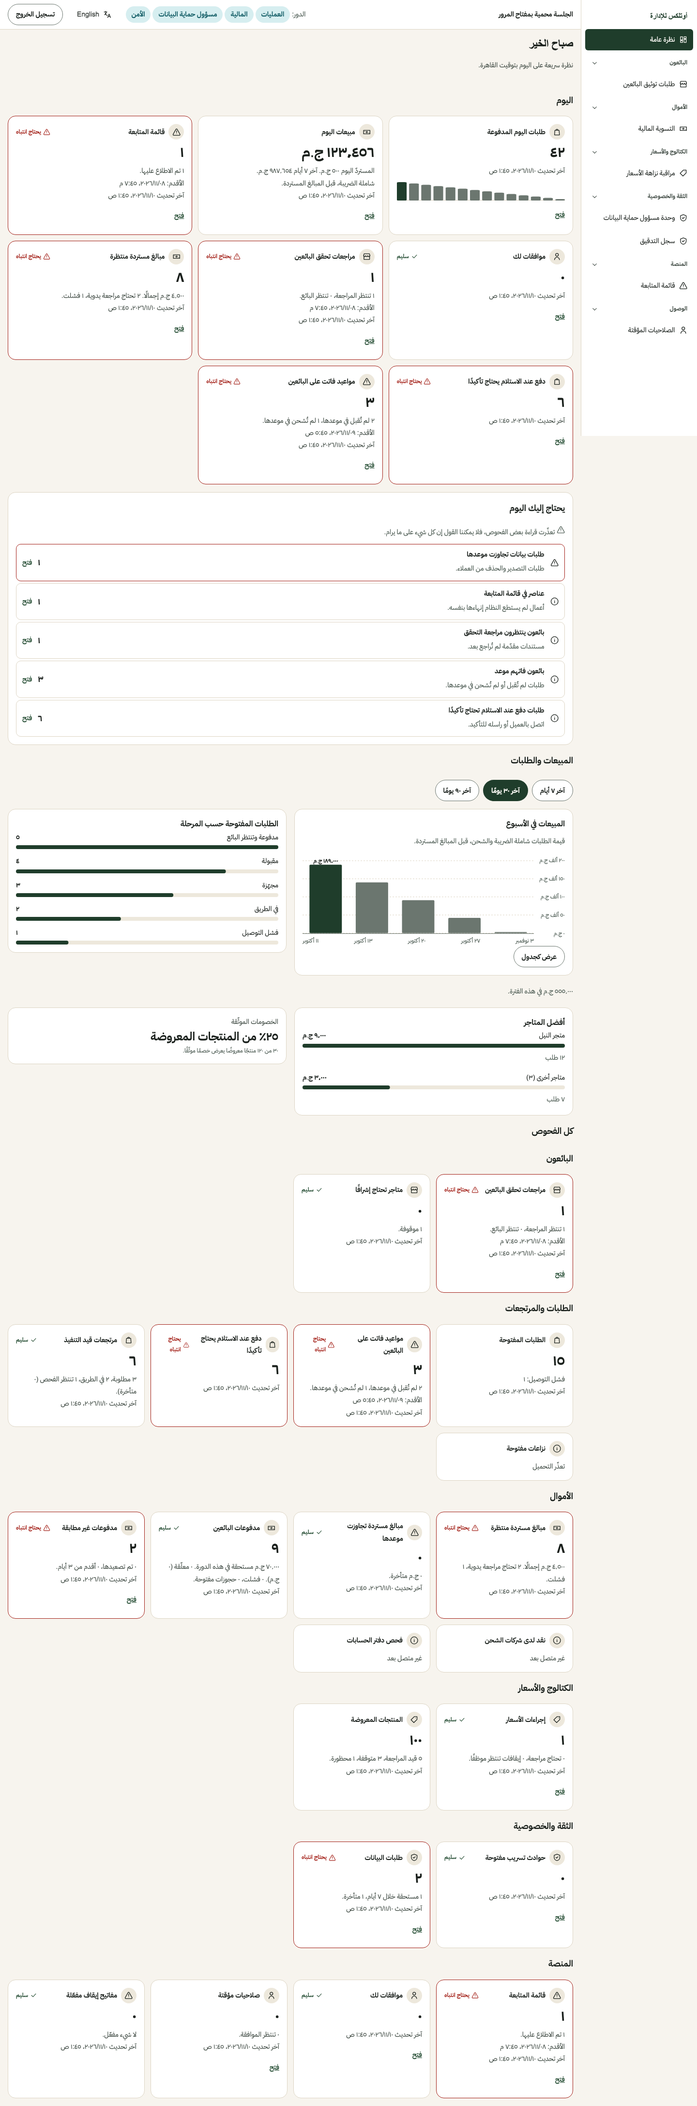
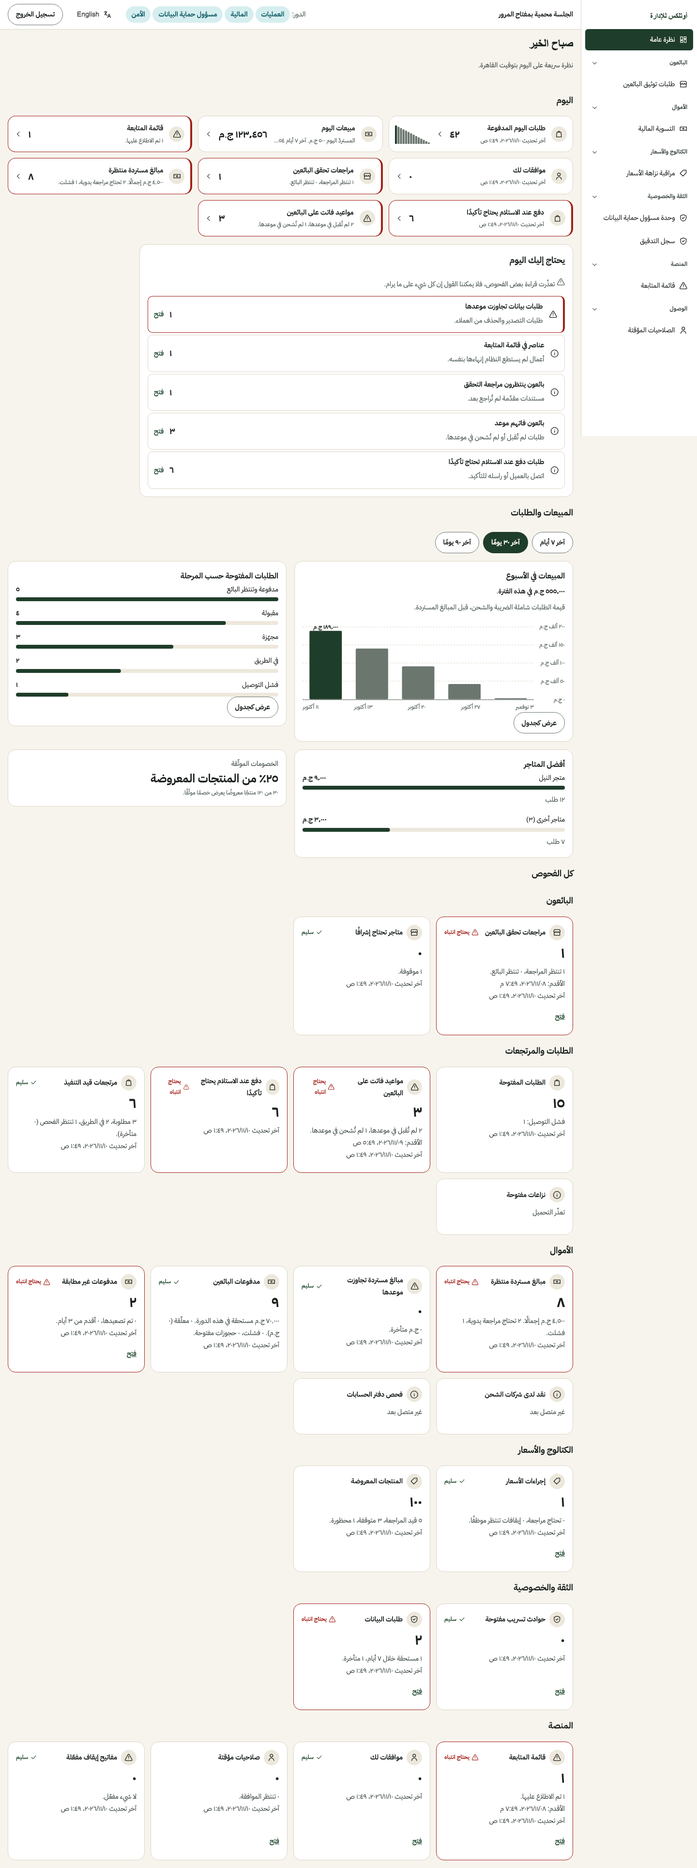
feat(admin): compact one-row Today cards (whole card is the link, chevron, inline sparkline), named Open links, table toggle for orders-by-step, period summary inside the chart frame, constrained Needs-you panel; fix e2e spec types

diff --git a/apps/admin/test/tile-model-branches.test.ts b/apps/admin/test/tile-model-branches.test.ts
@@ -1,0 +1,71 @@
+import { createTranslator } from "@outlet/i18n";
+import { describe, expect, it } from "vitest";
+import { DESCRIBERS } from "../src/components/home/tileModel";
+
+const c = { t: createTranslator("en-EG"), locale: "en-EG" as const };
+const iso = "2026-11-10T08:00:00Z";
+const egp = (v: string) => ({ amount_minor: v, currency: "EGP" });
+
+describe("tile describers: the alert flag and the notes follow the data", () => {
+  it("ledger integrity alerts when either the balance or the hash chain is wrong, and only then", () => {
+    const d = DESCRIBERS.ledger_integrity;
+    const base = { balanced: true, chain_ok: true, checked_at: iso };
+    expect(d?.(base, c).alert).toBe(false);
+    expect(d?.({ ...base, balanced: false }, c).alert).toBe(true);
+    expect(d?.({ ...base, chain_ok: false }, c).alert).toBe(true);
+    expect(d?.({ ...base, balanced: false }, c).value).toBe(c.t("admin.home.ledger.unbalanced"));
+    expect(d?.({ ...base, chain_ok: false }, c).notes[0]).toContain(c.t("admin.home.ledger.chainBroken"));
+    expect(d?.(base, c).value).toBe(c.t("admin.home.ledger.balanced"));
+  });
+
+  it("breaches: no deadline means no note and no alert at zero; an open breach alerts and names the deadline", () => {
+    const d = DESCRIBERS.breaches_open;
+    expect(d?.({ open: 0, next_pdpc_deadline_at: null, next_subjects_deadline_at: null }, c)).toMatchObject({ notes: [], alert: false, href: "/privacy" });
+    const open = d?.({ open: 2, next_pdpc_deadline_at: iso, next_subjects_deadline_at: null }, c);
+    expect(open?.alert).toBe(true);
+    expect(open?.notes).toHaveLength(1);
+  });
+
+  it("approvals: the soonest expiry is only a note when there is one", () => {
+    const d = DESCRIBERS.approvals_pending;
+    expect(d?.({ for_me: 0, soonest_expires_at: null }, c)).toMatchObject({ notes: [], alert: false });
+    expect(d?.({ for_me: 3, soonest_expires_at: iso }, c)).toMatchObject({ alert: true, value: "3" });
+    expect(d?.({ for_me: 3, soonest_expires_at: iso }, c).notes).toHaveLength(1);
+  });
+
+  it("elevations: the own-scope reminder appears only for scope own; the tile never alerts", () => {
+    const d = DESCRIBERS.elevations_active;
+    expect(d?.({ active: 1, pending: 2, scope: "own" }, c).notes).toHaveLength(2);
+    expect(d?.({ active: 1, pending: 2, scope: "market" }, c).notes).toHaveLength(1);
+    expect(d?.({ active: 1, pending: 2, scope: "own" }, c).alert).toBeUndefined();
+  });
+
+  it("kill switches: none engaged is calm; engaged lists the names per class with 'none' for an empty class", () => {
+    const d = DESCRIBERS.kill_switches;
+    const calm = d?.({ engaged_money: [], engaged_ui: [] }, c);
+    expect(calm).toMatchObject({ value: "0", alert: false, notes: [c.t("admin.home.note.noneEngaged")] });
+    const hot = d?.({ engaged_money: ["payments.cod.enabled", "payments.card.enabled"], engaged_ui: [] }, c);
+    expect(hot?.alert).toBe(true);
+    expect(hot?.value).toBe("2");
+    expect(hot?.notes[0]).toContain("payments.cod.enabled, payments.card.enabled");
+    expect(hot?.notes[0]).toContain(c.t("admin.home.note.none"));
+    expect(d?.({ engaged_money: [], engaged_ui: ["drops.enabled"] }, c).notes[0]).toContain("drops.enabled");
+  });
+
+  it("payouts alert on holds or failures, not on a plain due count", () => {
+    const d = DESCRIBERS.payouts;
+    const base = { due_count: 4, due_net: egp("1000"), on_hold_count: 0, on_hold_net: egp("0"), failed: 0, open_holds: 0 };
+    expect(d?.(base, c).alert).toBe(false);
+    expect(d?.({ ...base, on_hold_count: 1 }, c).alert).toBe(true);
+    expect(d?.({ ...base, failed: 1 }, c).alert).toBe(true);
+  });
+
+  it("stale-prone counts: oldest notes only appear with a timestamp; listings carry no alert at all", () => {
+    expect(DESCRIBERS.cod_awaiting_confirmation?.({ count: 0, oldest_at: null }, c)).toMatchObject({ notes: [], alert: false });
+    expect(DESCRIBERS.cod_awaiting_confirmation?.({ count: 2, oldest_at: iso }, c)).toMatchObject({ alert: true });
+    expect(DESCRIBERS.cod_awaiting_confirmation?.({ count: 2, oldest_at: iso }, c).notes).toHaveLength(1);
+    expect(DESCRIBERS.listings_by_status?.({ published: 9, in_review: 1, paused: 0, blocked: 0 }, c).alert).toBeUndefined();
+    expect(DESCRIBERS.seller_sla_breaches?.({ late_accept: 0, late_dispatch: 0, oldest_at: null }, c)).toMatchObject({ alert: false, notes: [expect.any(String)] });
+    expect(DESCRIBERS.seller_sla_breaches?.({ late_accept: 0, late_dispatch: 2, oldest_at: iso }, c)).toMatchObject({ alert: true, value: "2" });
+  });
+});

diff --git a/apps/admin/src/components/home/SalesAndOrders.tsx b/apps/admin/src/components/home/SalesAndOrders.tsx
@@ -3,6 +3,8 @@ import type { Locale, MessageKey, Translator } from "@outlet/i18n";
 import { bucketSeries, flattenTiles, permille, RANGES, tileState, type DashboardResponse, type Range, type SeriesPoint, type TileKey, type Tiles } from "../../lib/dashboard";
 import { fmtMoney, fmtNumber } from "../../lib/fmt";
 import { BarList, type BarListItem } from "../kit/BarList";
+import { ChartTableToggle } from "../kit/ChartTableToggle";
+import { DataTable } from "../kit/ChartFrame";
 import { ColumnsChart } from "../kit/ColumnsChart";
 import { KpiCard } from "../kit/KpiCard";
 import { shortDay } from "./HomeTile";
@@ -50,12 +52,12 @@ export function SalesAndOrders({ resp, range, now, t, locale, base, rtl }: { res
       const weekly = pts.length > 14;
       const total = money && d.total_gmv !== null ? t("admin.home.sales.summaryGmv", { total: fmtMoney(d.total_gmv, locale) }) : d.total_orders !== null ? t("admin.home.sales.summaryOrders", { total: fmtNumber(d.total_orders, locale) }) : "";
       chart = (
-        <div className="stack">
-          <ColumnsChart
+        <ColumnsChart
             points={buckets.map((b) => ({ label: shortDay(b.from, locale), value: Number(b.value) }))}
             rtl={rtl}
             title={t(money ? (weekly ? "admin.home.sales.gmvTitleWeek" : "admin.home.sales.gmvTitle") : weekly ? "admin.home.sales.ordersTitleWeek" : "admin.home.sales.ordersTitle")}
             note={t(money ? "admin.home.sales.gmvNote" : "admin.home.sales.ordersNote")}
+            {...(total !== "" ? { summary: total } : {})}
             format={{ kind: money ? "money" : "number", locale }}
             axisFormat={{ kind: money ? "moneyCompact" : "compact", locale }}
             valueHeader={t(money ? "admin.home.sales.colSales" : "admin.home.sales.colOrders")}
@@ -65,8 +67,6 @@ export function SalesAndOrders({ resp, range, now, t, locale, base, rtl }: { res
             highestLabel={t("admin.kit.highest")}
             latestLabel={t("admin.kit.latest")}
           />
-          {total !== "" ? <p className="hint" data-testid="sales-summary">{total}</p> : null}
-        </div>
       );
     }
   }
@@ -87,7 +87,7 @@ export function SalesAndOrders({ resp, range, now, t, locale, base, rtl }: { res
       {steps.kind !== "hidden" ? (
         <div className="card" data-panel="steps">
           <h3 className="chartFrameTitle">{t("admin.home.steps.title")}</h3>
-          {steps.kind === "unavailable" ? <p className="hint">{t(`admin.home.unavailable.${steps.reason}`)}</p> : <BarList items={stepItems} emptyText={t("admin.kit.chartEmpty")} />}
+          {steps.kind === "unavailable" ? <p className="hint">{t(`admin.home.unavailable.${steps.reason}`)}</p> : stepItems.length === 0 ? <BarList items={stepItems} emptyText={t("admin.kit.chartEmpty")} /> : <ChartTableToggle chart={<BarList items={stepItems} emptyText={t("admin.kit.chartEmpty")} />} table={<DataTable caption={t("admin.home.steps.title")} table={{ head: [t("admin.home.steps.colStep"), t("admin.home.sales.colOrders")], rows: STEPS.map((k) => [t(`admin.home.steps.${k}` as MessageKey), fmtNumber(steps.data[k], locale)]) }} />} label={t("admin.kit.tableView")} />}
         </div>
       ) : null}
       {top.kind !== "hidden" ? (

diff --git a/apps/admin/test/charts/path-branches.test.ts b/apps/admin/test/charts/path-branches.test.ts
@@ -1,0 +1,51 @@
+import { describe, expect, it } from "vitest";
+import { areaPath, linePath, monotonePath } from "../../src/lib/charts/path";
+
+describe("monotonePath edge inputs", () => {
+  it("a single point is a bare move; two points are a straight line", () => {
+    expect(monotonePath([{ x: 3.456, y: 7.891 }])).toBe("M3.46 7.89");
+    expect(monotonePath([{ x: 0, y: 1 }, { x: 4, y: 9 }])).toBe(linePath([{ x: 0, y: 1 }, { x: 4, y: 9 }]));
+  });
+
+  it("a flat run stays flat (zero slope), so the curve never dips below a real low", () => {
+    const d = monotonePath([{ x: 0, y: 5 }, { x: 1, y: 5 }, { x: 2, y: 5 }, { x: 3, y: 9 }]);
+    const flat = d.split("C").slice(1, 3);
+    for (const seg of flat) for (const y of seg.trim().split(" ").filter((_, i) => i % 2 === 1)) expect(Number(y)).toBe(5);
+  });
+
+  it("a turning point gets a zero tangent: the control points at the peak sit on its own y", () => {
+    const d = monotonePath([{ x: 0, y: 0 }, { x: 1, y: 10 }, { x: 2, y: 0 }]);
+    const segs = d.split("C").slice(1).map((s) => s.trim().split(" ").map(Number));
+    expect(segs[0]?.[3]).toBe(10); // second control point of the first segment is level with the peak
+    expect(segs[1]?.[1]).toBe(10); // first control point of the second segment too
+  });
+
+  it("a very steep step is limited (Fritsch-Carlson) so the curve cannot overshoot the next point", () => {
+    const pts = [{ x: 0, y: 0 }, { x: 1, y: 0.001 }, { x: 2, y: 100 }, { x: 3, y: 100.001 }];
+    const d = monotonePath(pts);
+    const ys = [...d.matchAll(/C([\d.-]+) ([\d.-]+) ([\d.-]+) ([\d.-]+) ([\d.-]+) ([\d.-]+)/g)].flatMap((m) => [Number(m[2]), Number(m[4]), Number(m[6])]);
+    expect(Math.max(...ys)).toBeLessThanOrEqual(100.001 + 1e-9);
+    expect(Math.min(...ys)).toBeGreaterThanOrEqual(0);
+  });
+
+  it("a right-to-left series (descending x) is accepted", () => {
+    const d = monotonePath([{ x: 30, y: 1 }, { x: 20, y: 2 }, { x: 10, y: 3 }]);
+    expect(d.startsWith("M30 1C")).toBe(true);
+    expect(d.endsWith("10 3")).toBe(true);
+  });
+
+  it("repeated x (zero width) yields a flat tangent instead of NaN", () => {
+    const d = monotonePath([{ x: 0, y: 0 }, { x: 0, y: 5 }, { x: 1, y: 9 }]);
+    expect(d).not.toContain("NaN");
+    expect(d).not.toContain("Infinity");
+  });
+});
+
+describe("areaPath", () => {
+  it("closes down to the baseline, and is empty without points or a curve", () => {
+    const pts = [{ x: 0, y: 3 }, { x: 5, y: 1 }];
+    expect(areaPath(linePath(pts), pts, 10)).toBe("M0 3L5 1L5 10L0 10Z");
+    expect(areaPath("", pts, 10)).toBe("");
+    expect(areaPath("M0 0", [], 10)).toBe("");
+  });
+});

diff --git a/apps/admin/src/app/globals.css b/apps/admin/src/app/globals.css
@@ -205,6 +205,23 @@ g[data-newest="true"] .colsBar { fill: var(--color-action-primary-bg); }
 @media (min-width: 48rem) { .todayGrid { grid-template-columns: repeat(2, minmax(0, 1fr)); } }
 @media (min-width: 80rem) { .todayGrid { grid-template-columns: repeat(3, minmax(0, 1fr)); } }
 .tileNoteLine { display: block; }
+.tileCard { padding: 0; }
+.tileCardLink { display: flex; align-items: center; gap: var(--space-3); min-block-size: 44px; padding: var(--space-3); color: inherit; text-decoration: none; border-radius: inherit; }
+a.tileCardLink:hover { background: var(--color-bg-subtle); }
+.tileCardText { display: grid; flex: 1; min-inline-size: 0; gap: 2px; }
+.tileCard .tileLabel { font-size: var(--font-size-sm); font-weight: var(--font-weight-semibold); margin: 0; }
+.tileCard .tileNote { font-size: var(--font-size-xs); white-space: nowrap; overflow: hidden; text-overflow: ellipsis; }
+.tileCard .tileNoteLine { display: none; }
+.tileCard .tileNoteLine:first-child { display: block; overflow: hidden; text-overflow: ellipsis; }
+.tileCard .tileValue { font-size: var(--font-size-xl); font-weight: var(--font-weight-bold); line-height: var(--font-line-height-tight); flex: none; }
+.tileChevron { display: inline-grid; flex: none; color: var(--color-text-secondary); transform: rotate(-90deg); }
+.tileChevron:dir(rtl) { transform: rotate(90deg); }
+.tileCard .spark { flex: none; inline-size: 4.5rem; margin: 0; }
+.tileCard[data-tone="alert"] { border-inline-start: 4px solid var(--color-critical-text); }
+.tileGrid > .tile:not(.tileCard) { grid-template-rows: auto auto 1fr auto; }
+.chartSummary { margin: 0; font-weight: var(--font-weight-semibold); }
+.attention { max-inline-size: 56rem; justify-self: start; inline-size: 100%; }
+.attentionList li[data-urgent] { border-inline-start: 4px solid var(--color-critical-text); }
 .rangePills { display: flex; flex-wrap: wrap; gap: var(--space-2); }
 .rangePill { display: inline-flex; align-items: center; justify-content: center; min-block-size: 44px; min-inline-size: 44px; padding-inline: var(--space-4); border-radius: var(--radius-pill); border: 1px solid var(--color-border-input); color: var(--color-text-primary); text-decoration: none; font-weight: var(--font-weight-semibold); background: var(--color-bg-surface); }
 .rangePill[aria-current="true"] { background: var(--color-action-primary-bg); color: var(--color-action-primary-text); border-color: transparent; }

diff --git a/apps/admin/src/components/kit/Tile.tsx b/apps/admin/src/components/kit/Tile.tsx
@@ -6,7 +6,7 @@ import { Icon, type IconName } from "./Icon";
  * One dashboard tile: plain label, big number, short note, optional detail and a link to the screen
  * behind it. `status` adds a chip with an icon and words (colour is never the only signal).
  */
-export function Tile({ tileKey, icon, label, value, note, href, linkLabel, status, statusLabel, wide = false, children }: {
+export function Tile({ tileKey, icon, label, value, note, href, linkLabel, status, statusLabel, wide = false, card = false, children }: {
   tileKey: string;
   icon: IconName;
   label: string;
@@ -17,9 +17,27 @@ export function Tile({ tileKey, icon, label, value, note, href, linkLabel, statu
   status?: "alert" | "ok";
   statusLabel?: string;
   wide?: boolean;
+  /** Compact "Today" card: the whole card is the link; no separate Open text. */
+  card?: boolean;
   children?: ReactNode;
 }) {
   const headingId = `tile-${tileKey}`;
+  if (card) {
+    const body = (
+      <>
+        <span className="tileIcon"><Icon name={icon} /></span>
+        <span className="tileCardText"><span id={headingId} className="tileLabel">{label}</span>{note ? <span className="tileNote">{note}</span> : null}</span>
+        {value !== undefined ? <span className="tileValue" data-testid="tile-value"><bdi>{value}</bdi></span> : null}
+        {href ? <span className="tileChevron" aria-hidden="true"><Icon name="chevron" /></span> : null}
+        {children}
+      </>
+    );
+    return (
+      <li className="tile tileCard" data-tone={status ?? "neutral"} data-tile={tileKey}>
+        {href ? <Link href={href} className="tileCardLink">{body}</Link> : <div className="tileCardLink">{body}</div>}
+      </li>
+    );
+  }
   return (
     <li className="tile" data-tone={status ?? "neutral"} data-wide={wide ? "true" : undefined} data-tile={tileKey} aria-labelledby={headingId}>
       <div className="tileHead">
@@ -30,7 +48,7 @@ export function Tile({ tileKey, icon, label, value, note, href, linkLabel, statu
       {value !== undefined ? <p className="tileValue" data-testid="tile-value"><bdi>{value}</bdi></p> : null}
       {note ? <p className="tileNote">{note}</p> : null}
       {children}
-      {href && linkLabel ? <Link href={href} className="tileLink">{linkLabel}</Link> : null}
+      {href && linkLabel ? <Link href={href} className="tileLink">{linkLabel}<span className="srOnly"> {label}</span></Link> : null}
     </li>
   );
 }

diff --git a/apps/admin/test/home-view.test.tsx b/apps/admin/test/home-view.test.tsx
@@ -110,7 +110,7 @@ describe.each<Locale>(["ar-EG", "en-EG"])("Home (%s)", (locale) => {
 
   it("table toggle shows every column's value; bars have no link where no list page exists", () => {
     view({}, "7d");
-    const toggle = screen.getByTestId("chart-table-toggle");
+    const toggle = screen.getAllByTestId("chart-table-toggle")[0]!;
     expect(toggle.getAttribute("aria-pressed")).toBe("false");
     fireEvent.click(toggle);
     expect(toggle.getAttribute("aria-pressed")).toBe("true");
@@ -118,11 +118,21 @@ describe.each<Locale>(["ar-EG", "en-EG"])("Home (%s)", (locale) => {
     const steps = document.querySelector<HTMLElement>("[data-panel=steps]")!;
     expect(steps.querySelectorAll("li")).toHaveLength(5);
     expect(steps.querySelectorAll("a")).toHaveLength(0);
+    fireEvent.click(within(steps).getByTestId("chart-table-toggle"));
+    expect(steps.querySelectorAll(".chartTable tbody tr")).toHaveLength(5);
+  });
+
+  it("every Open link and Today card link names its tile", () => {
+    view({}, "7d");
+    const today = document.querySelector<HTMLElement>("[data-section=today]")!;
+    for (const a of Array.from(today.querySelectorAll("a"))) expect(a.textContent.length).toBeGreaterThan(8);
+    expect(today.textContent).not.toMatch(/\bOpen\b/);
+    for (const a of Array.from(document.querySelectorAll("[data-attention-panel] a, [data-section=checks] a"))) expect(a.querySelector(".srOnly")).not.toBeNull();
   });
 
   it("falls back to order columns without finance access and groups 30 days weekly", () => {
     view({ gmv_today: forbidden("gmv_today"), sales_series: { key: "sales_series", status: "ok", as_of: "2026-11-10T08:59:30Z", data: { orders: Array.from({ length: 30 }, (_, i) => ({ day: `2026-10-${String(i + 1).padStart(2, "0")}`, value: 1 })), gmv: null, total_orders: 30, total_gmv: null } } });
-    fireEvent.click(screen.getByTestId("chart-table-toggle"));
+    fireEvent.click(screen.getAllByTestId("chart-table-toggle")[0]!);
     expect(document.querySelectorAll(".chartTable tbody tr")).toHaveLength(5);
     expect(screen.getByTestId("sales-summary")).toBeTruthy();
   });

diff --git a/apps/admin/src/components/home/HomeTile.tsx b/apps/admin/src/components/home/HomeTile.tsx
@@ -15,7 +15,7 @@ export const shortDay = (day: string, locale: Locale): string => {
  * One tile from the dashboard response. forbidden -> nothing is rendered. unavailable -> the reason in words (never a zero).
  * ok -> the figure, its notes and when it was computed; a figure older than its refresh window also says "Stale since".
  */
-export function HomeTile({ tileKey, tiles, now, t, locale, base, rtl, href, spark }: {
+export function HomeTile({ tileKey, tiles, now, t, locale, base, rtl, href, spark, card = false }: {
   tileKey: TileKey;
   tiles: Tiles;
   now: Date;
@@ -25,6 +25,7 @@ export function HomeTile({ tileKey, tiles, now, t, locale, base, rtl, href, spar
   rtl: boolean;
   /** Overrides the destination (Today cards open their pop page). */
   href?: string | null;
+  card?: boolean;
   spark?: readonly { readonly day: string; readonly value: number }[];
 }) {
   const s = tileState(tileKey, tiles[tileKey], now);
@@ -41,8 +42,9 @@ export function HomeTile({ tileKey, tiles, now, t, locale, base, rtl, href, spar
       tileKey={tileKey}
       icon={b.icon}
       label={label}
+      card={card}
       {...(b.value !== undefined ? { value: b.value } : {})}
-      note={<>{notes.map((x, i) => <span key={i} className="tileNoteLine">{x}</span>)}</>}
+      note={<>{(card ? (s.staleSince !== null ? notes.slice(-1) : notes.slice(0, 1)) : notes).map((x, i) => <span key={i} className="tileNoteLine">{x}</span>)}</>}
       {...(dest !== null ? { href: dest, linkLabel: t("admin.kit.attention.open") } : {})}
       {...(b.alert === undefined ? {} : { status: b.alert ? ("alert" as const) : ("ok" as const), statusLabel: t(b.alert ? "admin.kit.statusAlert" : "admin.kit.statusOk") })}
     >

diff --git a/apps/admin/src/components/kit/ColumnsChart.tsx b/apps/admin/src/components/kit/ColumnsChart.tsx
@@ -17,11 +17,12 @@ export interface ColumnPoint {
  * colour). Digits sit in `bdi`. The table view lists every value. `rtl` mirrors the time axis.
  * Renders exactly the points it is given.
  */
-export function ColumnsChart({ points, rtl, title, note, format, axisFormat, valueHeader, labelHeader, tableLabel, emptyText, highestLabel, latestLabel, size = "md" }: {
+export function ColumnsChart({ points, rtl, title, note, summary, format, axisFormat, valueHeader, labelHeader, tableLabel, emptyText, highestLabel, latestLabel, size = "md" }: {
   points: readonly ColumnPoint[];
   rtl: boolean;
   title: string;
   note?: string;
+  summary?: string;
   format: FormatSpec;
   axisFormat: FormatSpec;
   valueHeader: string;
@@ -67,7 +68,7 @@ export function ColumnsChart({ points, rtl, title, note, format, axisFormat, val
   );
   const table = <DataTable caption={title} table={{ head: [labelHeader, valueHeader], rows: points.map((p) => [p.label, formatWith(format, p.value)]) }} />;
   return (
-    <ChartFrame title={title} note={note} size={size}>
+    <ChartFrame title={title} note={note} summary={summary} size={size}>
       {m.empty && points.length === 0 ? <p className="colsEmpty">{emptyText}</p> : <ChartTableToggle chart={chart} table={table} label={tableLabel} />}
     </ChartFrame>
   );

diff --git a/apps/admin/e2e/home.spec.ts b/apps/admin/e2e/home.spec.ts
@@ -288,7 +288,7 @@ test("attention page: ack sends an Idempotency-Key; a 409 shows the 'changed by 
   expect(problems).toEqual([]);
 
   const ackRow = page.locator('[data-attention-id="a7700000-0000-4000-8000-000000000001"]');
-  await ackRow.getByRole("button", { name: CATALOG["eg-ar"]["admin.attention.ack"] }).click();
+  await ackRow.getByRole("button", { name: CATALOG["eg-ar"]["admin.attention.ack"] as string }).click();
   await expect(ackRow.getByRole("status")).toContainText(msg("eg-ar", "admin.attention.done"));
   const sent = (await apiLog()).filter((l) => l.path === "/attention-ack");
   expect(sent).toHaveLength(1);
@@ -298,7 +298,7 @@ test("attention page: ack sends an Idempotency-Key; a 409 shows the 'changed by 
   await page.goto("/eg-en/attention");
   await page.waitForLoadState("networkidle");
   const row = page.locator('[data-attention-id="a7700000-0000-4000-8000-000000000001"]');
-  await row.getByRole("button", { name: CATALOG["eg-en"]["admin.attention.ack"] }).click();
+  await row.getByRole("button", { name: CATALOG["eg-en"]["admin.attention.ack"] as string }).click();
   await expect(row.getByRole("alert")).toContainText(msg("eg-en", "admin.attention.conflict"));
   await ctx.close();
 });

diff --git a/apps/admin/src/components/kit/ChartFrame.tsx b/apps/admin/src/components/kit/ChartFrame.tsx
@@ -2,11 +2,12 @@ import type { ReactNode } from "react";
 import type { TableData } from "../../lib/charts/models";
 
 /** Card around a chart: title, note, the plot at a fixed height (same when empty, so nothing jumps) and an optional footer. */
-export function ChartFrame({ title, note, size = "md", children, footer }: { title: ReactNode; note?: ReactNode; size?: "sm" | "md" | "lg"; children: ReactNode; footer?: ReactNode }) {
+export function ChartFrame({ title, note, summary, size = "md", children, footer }: { title: ReactNode; note?: ReactNode; summary?: ReactNode; size?: "sm" | "md" | "lg"; children: ReactNode; footer?: ReactNode }) {
   return (
     <figure className="chartFrame">
       <div className="chartFrameHead">
         <h3 className="chartFrameTitle">{title}</h3>
+        {summary ? <p className="chartSummary" data-testid="sales-summary">{summary}</p> : null}
         {note ? <p className="hint">{note}</p> : null}
       </div>
       <div className="chartPlot" data-size={size}>{children}</div>

diff --git a/apps/admin/src/components/home/NeedsYou.tsx b/apps/admin/src/components/home/NeedsYou.tsx
@@ -25,7 +25,7 @@ export function NeedsYou({ needs, t, locale, base }: { needs: Needs; t: Translat
                 <span className="attentionIcon"><Icon name={r.urgent ? "alert" : "info"} /></span>
                 <span className="attentionText"><span className="attentionTitle">{title(t, r.id)}</span><span className="hint">{hint(t, r.id)}</span></span>
                 <span className="attentionCount"><bdi>{fmtNumber(r.count, locale)}</bdi></span>
-                {r.href !== null ? <span className="attentionGo">{t("admin.kit.attention.open")}</span> : null}
+                {r.href !== null ? <span className="attentionGo">{t("admin.kit.attention.open")}<span className="srOnly"> {title(t, r.id)}</span></span> : null}
               </>
             );
             return (

diff --git a/apps/admin/src/components/home/TodayCards.tsx b/apps/admin/src/components/home/TodayCards.tsx
@@ -13,7 +13,7 @@ export function TodayCards({ tiles, now, t, locale, base, rtl }: { tiles: Tiles;
         {visible.map((c) => {
           const raw = tiles[c.tile];
           const spark = c.tile === "orders_today" && raw.status === "ok" && "series_14d" in raw.data ? raw.data.series_14d : undefined;
-          return <HomeTile key={c.slug} tileKey={c.tile} tiles={tiles} now={now} t={t} locale={locale} base={base} rtl={rtl} href={`${base}/today/${c.slug}`} {...(spark ? { spark } : {})} />;
+          return <HomeTile key={c.slug} tileKey={c.tile} tiles={tiles} now={now} t={t} locale={locale} base={base} rtl={rtl} card href={`${base}/today/${c.slug}`} {...(spark ? { spark } : {})} />;
         })}
       </ul>
     </section>
